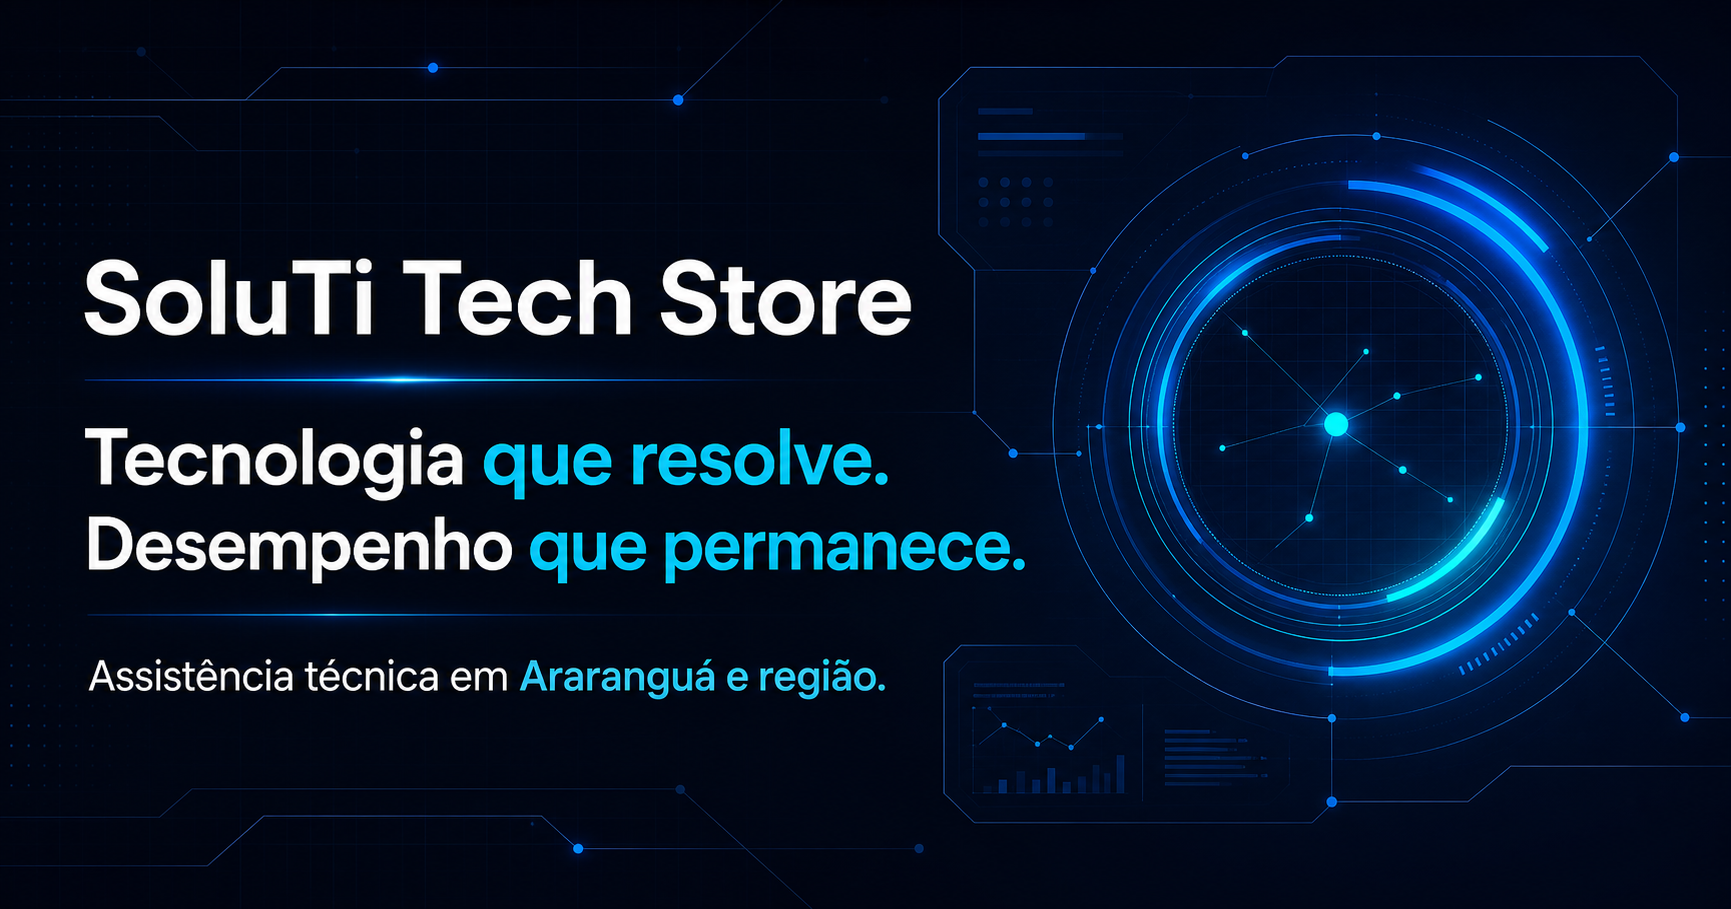
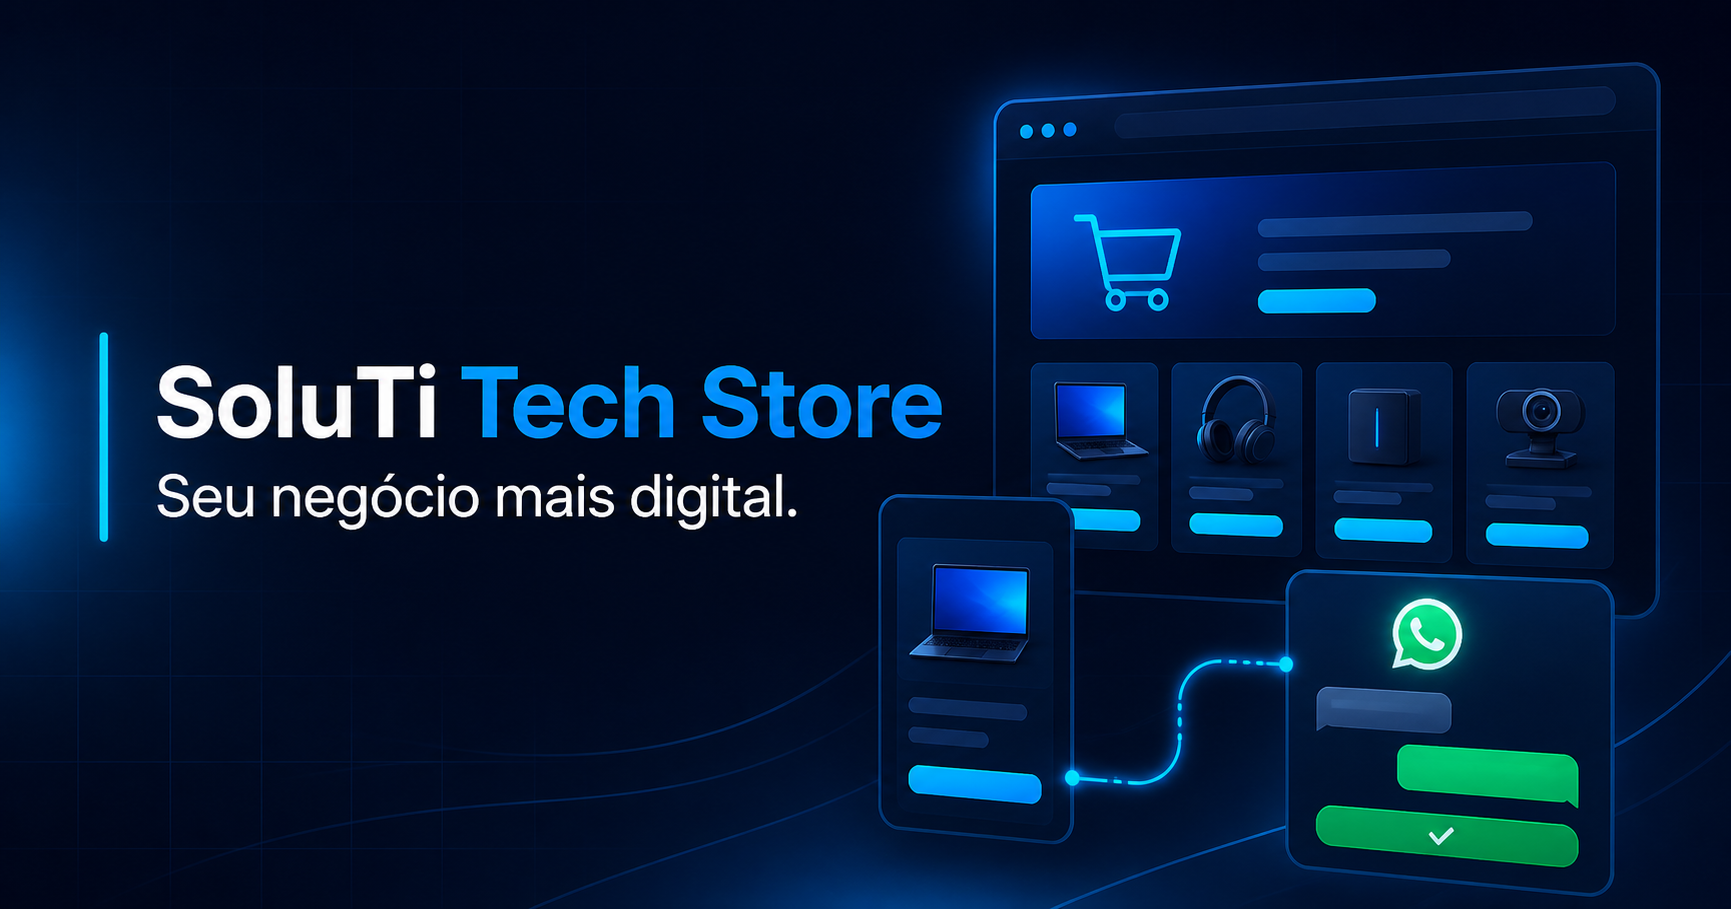
Atualiza serviços digitais da Soluti

diff --git a/app/page.tsx b/app/page.tsx
@@ -5,73 +5,81 @@ import { useState } from "react";
 
 const whatsappUrl =
   "https://wa.me/5548991104708?text=Ol%C3%A1%21%20Conheci%20a%20SoluTi%20pelo%20site%20e%20gostaria%20de%20solicitar%20atendimento.";
+const siteProjectUrl =
+  "https://wa.me/5548991104708?text=Ol%C3%A1%21%20Quero%20criar%20um%20site%20profissional%20para%20o%20meu%20neg%C3%B3cio.";
+const webSalesUrl =
+  "https://wa.me/5548991104708?text=Ol%C3%A1%21%20Quero%20conhecer%20a%20solu%C3%A7%C3%A3o%20de%20cat%C3%A1logo%20e%20pedidos%20pelo%20WhatsApp.";
 
-const services = [
+const services: Array<{
+  number: string;
+  tag: string;
+  title: string;
+  description: string;
+  items: string[];
+  featured?: boolean;
+  url?: string;
+}> = [
   {
     number: "01",
-    tag: "Performance",
-    title: "Assistência técnica e upgrades",
+    tag: "Presença digital",
+    title: "Sites e páginas profissionais",
     description:
-      "Manutenção preventiva e corretiva em computadores e notebooks, com diagnóstico cuidadoso, troca de SSD, memória RAM e outros componentes.",
-    items: ["Computadores e notebooks", "SSD e memória RAM", "Otimização de desempenho"],
+      "Uma presença digital clara, rápida e com baixo custo de entrada para MEIs, autônomos e pequenos negócios apresentarem seus serviços e serem encontrados.",
+    items: ["Página adaptada ao celular", "Botão direto para o WhatsApp", "Domínio e publicação orientados"],
+    featured: true,
+    url: siteProjectUrl,
   },
   {
     number: "02",
-    tag: "Sistemas",
-    title: "Formatação e softwares",
+    tag: "Vendas online",
+    title: "Aplicativos web de vendas",
     description:
-      "Instalação e configuração de Windows, drivers, programas profissionais, certificados digitais e ferramentas essenciais para o seu dia a dia.",
-    items: ["Windows e drivers", "Programas e aplicativos", "Certificados digitais"],
+      "Soluções simples para exibir produtos, organizar um catálogo e receber pedidos pelo WhatsApp sem começar por uma loja virtual complexa.",
+    items: ["Catálogo digital", "Carrinho e pedido via WhatsApp", "Solução sob medida para o negócio"],
+    featured: true,
+    url: webSalesUrl,
   },
   {
     number: "03",
-    tag: "Proteção",
-    title: "Dados e segurança digital",
+    tag: "Equipamentos",
+    title: "Computadores e notebooks",
     description:
-      "Backup, tentativa de recuperação de arquivos, remoção de vírus e malwares, configuração de antivírus e atualização de sistemas.",
-    items: ["Backup de arquivos", "Recuperação de dados", "Vírus e malwares"],
+      "Manutenção, formatação e melhorias para seus equipamentos voltarem a funcionar com segurança e bom desempenho.",
+    items: ["Manutenção e formatação", "SSD e memória RAM", "Programas e certificados"],
   },
   {
     number: "04",
-    tag: "Impressoras",
-    title: "Instalação e suporte para impressoras",
+    tag: "Suporte",
+    title: "Atendimento remoto ou presencial",
     description:
-      "Instalação, configuração e solução de problemas em impressoras jato de tinta, laser e térmicas, incluindo drivers e compartilhamento.",
-    items: ["Instalação e drivers", "Jato de tinta, laser e térmicas", "Configuração e compartilhamento"],
-  },
-  {
-    number: "05",
-    tag: "Agilidade",
-    title: "Suporte remoto e presencial",
-    description:
-      "Soluções rápidas e seguras à distância ou atendimento diretamente no local quando o problema exige uma visita técnica.",
+      "Ajuda técnica à distância ou no local para resolver problemas do dia a dia com rapidez e orientação clara.",
     items: ["Acesso remoto seguro", "Atendimento no local", "Araranguá e região"],
   },
   {
-    number: "06",
-    tag: "Sob medida",
-    title: "Montagem e consultoria",
+    number: "05",
+    tag: "Estrutura",
+    title: "Impressoras, dados e consultoria",
     description:
-      "Computadores personalizados para trabalho, estudos e jogos, além de orientação para escolher equipamentos e melhorar seus recursos tecnológicos.",
-    items: ["PCs personalizados", "Escolha de equipamentos", "Soluções para empresas"],
+      "Instalação de impressoras, proteção de arquivos e orientação para escolher equipamentos e soluções adequadas ao negócio.",
+    items: ["Impressoras", "Backup e segurança", "Consultoria em tecnologia"],
   },
 ];
 
 const steps = [
   {
     number: "01",
-    title: "Conte o que está acontecendo",
-    text: "Fale com a SoluTi pelo WhatsApp e descreva o problema ou a necessidade.",
+    title: "Conte o que o seu negócio precisa",
+    text: "Fale com a SoluTi pelo WhatsApp e explique seu objetivo, seus produtos ou a necessidade técnica.",
   },
   {
     number: "02",
-    title: "Receba a melhor orientação",
-    text: "Avaliamos se o atendimento pode ser remoto ou se é necessário um diagnóstico presencial.",
+    title: "Receba uma proposta adequada",
+    text: "Avaliamos a solução mais simples e viável, sempre considerando a rotina e o orçamento do seu negócio.",
   },
   {
     number: "03",
-    title: "Volte a trabalhar sem complicação",
-    text: "Executamos a solução adequada com clareza, cuidado e foco na confiabilidade do equipamento.",
+    title: "Coloque a solução para funcionar",
+    text: "Criamos, configuramos e entregamos tudo com orientação clara para você divulgar, vender ou trabalhar melhor.",
   },
 ];
 
@@ -133,22 +141,22 @@ export default function Home() {
           <div className="hero-copy">
             <div className="eyebrow">
               <span className="signal-dot" />
-              Assistência técnica em Araranguá e região
+              Tecnologia para MEIs e pequenos negócios
             </div>
 
             <h1>
               Tecnologia que resolve.
-              <span>Desempenho que permanece.</span>
+              <span>Seu negócio mais digital.</span>
             </h1>
 
             <p className="hero-text">
-              Manutenção, upgrades, impressoras e suporte especializado para manter seus
-              equipamentos rápidos, seguros e prontos para acompanhar a sua rotina.
+              Sites profissionais, catálogos com pedidos pelo WhatsApp, aplicativos web de vendas
+              e suporte técnico para pequenos negócios crescerem com simplicidade e baixo custo de entrada.
             </p>
 
             <div className="hero-actions">
               <a className="button button-primary" href={whatsappUrl} target="_blank" rel="noreferrer">
-                Falar com um técnico <span aria-hidden="true">↗</span>
+                Falar sobre meu projeto <span aria-hidden="true">↗</span>
               </a>
               <a className="button button-secondary" href="#servicos">
                 Conhecer soluções <span aria-hidden="true">↓</span>
@@ -158,11 +166,11 @@ export default function Home() {
             <div className="hero-trust" aria-label="Diferenciais da SoluTi">
               <div>
                 <span className="trust-mark">01</span>
-                <p><strong>Diagnóstico claro</strong><small>Solução adequada para cada caso</small></p>
+                <p><strong>Comece sem complicação</strong><small>Soluções proporcionais ao seu negócio</small></p>
               </div>
               <div>
                 <span className="trust-mark">02</span>
-                <p><strong>Atendimento flexível</strong><small>Remoto, presencial ou no local</small></p>
+                <p><strong>Venda pelo WhatsApp</strong><small>Um caminho simples para receber pedidos</small></p>
               </div>
             </div>
           </div>
@@ -176,24 +184,24 @@ export default function Home() {
             <div className="compact-visual-main">
               <div className="compact-symbol" aria-hidden="true"><span>S</span></div>
               <div>
-                <small>ASSISTÊNCIA TÉCNICA</small>
-                <h2>Simples, rápido e sob medida.</h2>
+                <small>SOLUÇÕES DIGITAIS + SUPORTE</small>
+                <h2>Presença, vendas e tecnologia sob medida.</h2>
               </div>
             </div>
 
             <div className="compact-solutions" aria-label="Principais soluções">
-              <span>Computadores</span>
-              <span>Notebooks</span>
-              <span>Impressoras</span>
+              <span>Sites</span>
+              <span>Catálogos</span>
+              <span>Pedidos via WhatsApp</span>
             </div>
           </div>
         </div>
 
         <div className="container hero-strip">
-          <span>MANUTENÇÃO</span><i />
-          <span>UPGRADES</span><i />
-          <span>IMPRESSORAS</span><i />
-          <span>SEGURANÇA</span><i />
+          <span>SITES</span><i />
+          <span>CATÁLOGOS</span><i />
+          <span>VENDAS WEB</span><i />
+          <span>WHATSAPP</span><i />
           <span>SUPORTE</span>
         </div>
       </section>
@@ -203,17 +211,17 @@ export default function Home() {
           <div className="section-heading">
             <div>
               <span className="section-label">// SOLUÇÕES</span>
-              <h2>Suporte completo para a sua tecnologia.</h2>
+              <h2>Do suporte técnico à presença digital.</h2>
             </div>
             <p>
-              Da manutenção do computador à instalação de sistemas e impressoras, a SoluTi reúne as
-              soluções essenciais para pessoas e empresas trabalharem com mais segurança e produtividade.
+              A SoluTi ajuda MEIs, autônomos e pequenas empresas a aparecer na internet, receber pedidos
+              e manter sua tecnologia funcionando — com soluções diretas e adequadas ao orçamento.
             </p>
           </div>
 
           <div className="services-grid">
             {services.map((service) => (
-              <article className="service-card" key={service.number}>
+              <article className={`service-card ${service.featured ? "service-card-featured" : ""}`} key={service.number}>
                 <div className="service-topline">
                   <span className="service-number">{service.number}</span>
                   <span className="service-tag">{service.tag}</span>
@@ -223,8 +231,8 @@ export default function Home() {
                 <ul>
                   {service.items.map((item) => <li key={item}>{item}</li>)}
                 </ul>
-                <a href={whatsappUrl} target="_blank" rel="noreferrer">
-                  Solicitar atendimento <span aria-hidden="true">↗</span>
+                <a href={service.url ?? whatsappUrl} target="_blank" rel="noreferrer">
+                  {service.featured ? "Levar meu negócio para o digital" : "Solicitar atendimento"} <span aria-hidden="true">↗</span>
                 </a>
               </article>
             ))}
@@ -236,10 +244,10 @@ export default function Home() {
         <div className="container process-layout">
           <div className="process-intro">
             <span className="section-label">// COMO FUNCIONA</span>
-            <h2>Do problema à solução, sem complicação.</h2>
+            <h2>Da ideia à solução, sem complicação.</h2>
             <p>
-              Você não precisa entender de tecnologia para receber um atendimento
-              claro. A SoluTi identifica a necessidade e orienta o melhor caminho.
+              Você não precisa entender de tecnologia para começar. A SoluTi ouve sua
+              necessidade e transforma isso em um caminho simples, claro e acessível.
             </p>
             <a className="text-link" href={whatsappUrl} target="_blank" rel="noreferrer">
               Iniciar atendimento agora <span aria-hidden="true">→</span>
@@ -271,19 +279,19 @@ export default function Home() {
             <span className="section-label">// SOBRE A SOLUTI</span>
             <h2>Tecnologia próxima, clara e feita para funcionar.</h2>
             <p>
-              A SoluTi Tech Store oferece assistência técnica e soluções de tecnologia
-              para clientes residenciais e empresas em Araranguá e cidades vizinhas.
+              A SoluTi Tech Store oferece presença digital, soluções web de vendas e assistência
+              técnica para MEIs, autônomos, pequenos negócios e clientes residenciais.
             </p>
             <p>
               Cada atendimento começa entendendo a real necessidade do cliente. O objetivo
-              é recuperar o desempenho, proteger os dados e indicar soluções que façam sentido
-              para o uso e o orçamento de cada pessoa.
+              é entregar algo realmente útil — seja um site, um catálogo ou suporte técnico —
+              que faça sentido para a rotina e o orçamento de cada cliente.
             </p>
 
             <div className="about-points">
-              <div><strong>Atendimento remoto</strong><span>Agilidade para problemas que podem ser resolvidos à distância.</span></div>
-              <div><strong>Atendimento presencial</strong><span>Suporte técnico em Araranguá e cidades vizinhas.</span></div>
-              <div><strong>Soluções personalizadas</strong><span>Recomendações compatíveis com sua necessidade e equipamento.</span></div>
+              <div><strong>Baixo custo de entrada</strong><span>Comece com o essencial e evolua conforme o negócio crescer.</span></div>
+              <div><strong>Foco em pequenos negócios</strong><span>Soluções digitais pensadas para uma operação enxuta.</span></div>
+              <div><strong>Soluções personalizadas</strong><span>Tecnologia compatível com sua necessidade e orçamento.</span></div>
             </div>
           </div>
         </div>
@@ -313,24 +321,24 @@ export default function Home() {
         <div className="container faq-layout">
           <div>
             <span className="section-label">// DÚVIDAS FREQUENTES</span>
-            <h2>Antes de chamar o suporte.</h2>
+            <h2>Dúvidas rápidas.</h2>
           </div>
           <div className="faq-list">
             <details>
-              <summary>O atendimento pode ser feito remotamente?<span>+</span></summary>
-              <p>Sim. Instalação de programas, configurações e diversos problemas de sistema podem ser resolvidos por acesso remoto seguro.</p>
+              <summary>Quanto custa criar um site?<span>+</span></summary>
+              <p>Depende do conteúdo e das funções. A SoluTi oferece opções com baixo custo de entrada e apresenta uma proposta clara antes de começar.</p>
             </details>
             <details>
-              <summary>Vocês atendem fora de Araranguá?<span>+</span></summary>
-              <p>Sim. A SoluTi atende cidades vizinhas, conforme disponibilidade e com taxa de deslocamento informada antes da visita.</p>
+              <summary>Posso receber pedidos pelo WhatsApp?<span>+</span></summary>
+              <p>Sim. O cliente escolhe os produtos no catálogo e envia o pedido organizado diretamente para o WhatsApp da empresa.</p>
             </details>
             <details>
-              <summary>É possível melhorar um computador lento?<span>+</span></summary>
-              <p>Na maioria dos casos, sim. Após avaliar o equipamento, podemos indicar otimização, formatação ou upgrades de SSD e memória RAM.</p>
+              <summary>O site funciona bem no celular?<span>+</span></summary>
+              <p>Sim. As páginas são preparadas para celular, computador e tablet, priorizando leitura fácil e contato rápido.</p>
             </details>
             <details>
-              <summary>A recuperação de dados é garantida?<span>+</span></summary>
-              <p>A possibilidade depende do estado do dispositivo e dos arquivos. O caso precisa ser avaliado antes de confirmar a viabilidade da recuperação.</p>
+              <summary>Vocês também continuam com assistência técnica?<span>+</span></summary>
+              <p>Sim. A SoluTi continua atendendo computadores, notebooks, impressoras e suporte remoto ou presencial em Araranguá e região.</p>
             </details>
           </div>
         </div>
@@ -339,9 +347,9 @@ export default function Home() {
       <section className="final-cta">
         <div className="cta-grid" aria-hidden="true" />
         <div className="container cta-inner">
-          <span className="section-label">// PRECISA DE AJUDA?</span>
-          <h2>Seu problema de tecnologia pode começar a ser resolvido agora.</h2>
-          <p>Fale com a SoluTi pelo WhatsApp e conte o que está acontecendo.</p>
+          <span className="section-label">// VAMOS CONVERSAR?</span>
+          <h2>Seu negócio pode dar o próximo passo no digital.</h2>
+          <p>Conte sua ideia pelo WhatsApp. A SoluTi ajuda a encontrar uma forma simples de começar.</p>
           <a className="button button-light" href={whatsappUrl} target="_blank" rel="noreferrer">
             Chamar no WhatsApp <span aria-hidden="true">↗</span>
           </a>
@@ -353,7 +361,7 @@ export default function Home() {
           <a className="brand footer-brand" href="#inicio" aria-label="Voltar ao início">
             <Image src="/logo-soluti-transparent.png" width={1983} height={793} alt="SoluTi Tech Store" />
           </a>
-          <p>Assistência técnica e soluções em tecnologia para Araranguá e região.</p>
+          <p>Sites, vendas web e assistência técnica para pequenos negócios em Araranguá e região.</p>
           <div className="footer-links">
             <a href="#servicos">Serviços</a>
             <a href="#como-funciona">Como funciona</a>

diff --git a/app/layout.tsx b/app/layout.tsx
@@ -16,16 +16,16 @@ export async function generateMetadata(): Promise<Metadata> {
 
   return {
     metadataBase: baseUrl,
-    title: "SoluTi Tech Store | Assistência Técnica em Araranguá",
+    title: "SoluTi Tech Store | Sites, Vendas Web e Assistência Técnica",
     description:
-      "Assistência técnica em computadores e notebooks, upgrades, impressoras, suporte remoto e soluções em tecnologia em Araranguá e região.",
+      "Sites profissionais, catálogos com pedidos pelo WhatsApp, soluções web de vendas e assistência técnica para pequenos negócios.",
     icons: {
       icon: "/logo-soluti-transparent.png",
       shortcut: "/logo-soluti-transparent.png",
     },
     openGraph: {
       title: "SoluTi Tech Store",
-      description: "Tecnologia que resolve. Desempenho que permanece.",
+      description: "Sites, vendas web e tecnologia sob medida para pequenos negócios.",
       locale: "pt_BR",
       type: "website",
       images: [{ url: socialImageUrl, width: 1731, height: 909, alt: "SoluTi Tech Store" }],
@@ -33,7 +33,7 @@ export async function generateMetadata(): Promise<Metadata> {
     twitter: {
       card: "summary_large_image",
       title: "SoluTi Tech Store",
-      description: "Assistência técnica e soluções em tecnologia em Araranguá e região.",
+      description: "Presença digital, vendas pelo WhatsApp e assistência técnica em Araranguá e região.",
       images: [socialImageUrl],
     },
   };

diff --git a/app/globals.css b/app/globals.css
@@ -599,6 +599,17 @@ summary:focus-visible {
 
 .service-card:hover::before { opacity: 1; }
 
+.service-card-featured {
+  border-color: rgba(17, 102, 237, 0.28);
+  background: linear-gradient(145deg, rgba(255,255,255,0.98), rgba(230,242,255,0.88));
+  box-shadow: 0 18px 42px rgba(17, 102, 237, 0.1);
+}
+
+.service-card-featured::before {
+  height: 4px;
+  opacity: 1;
+}
+
 .service-topline {
   display: flex;
   align-items: center;
